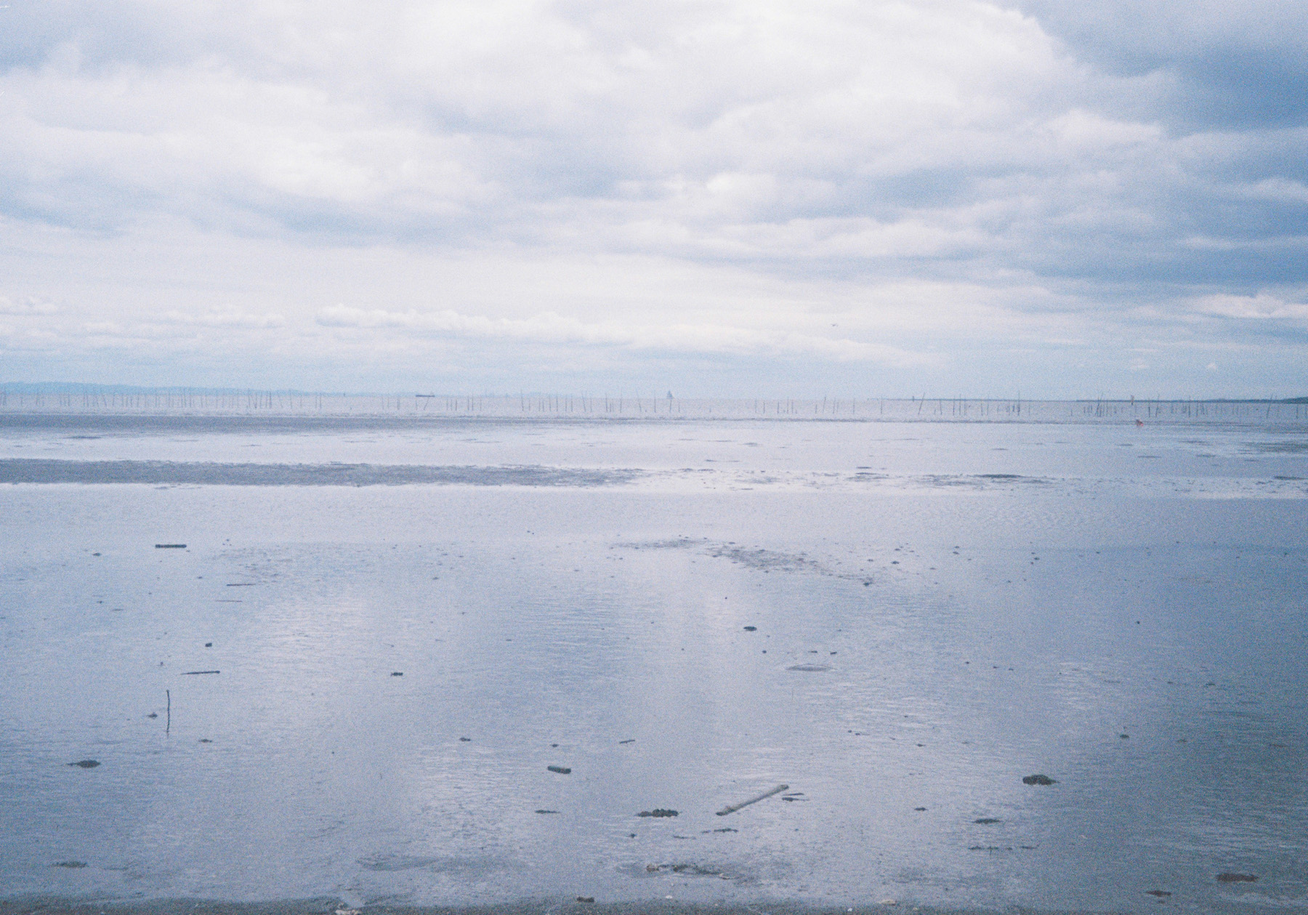
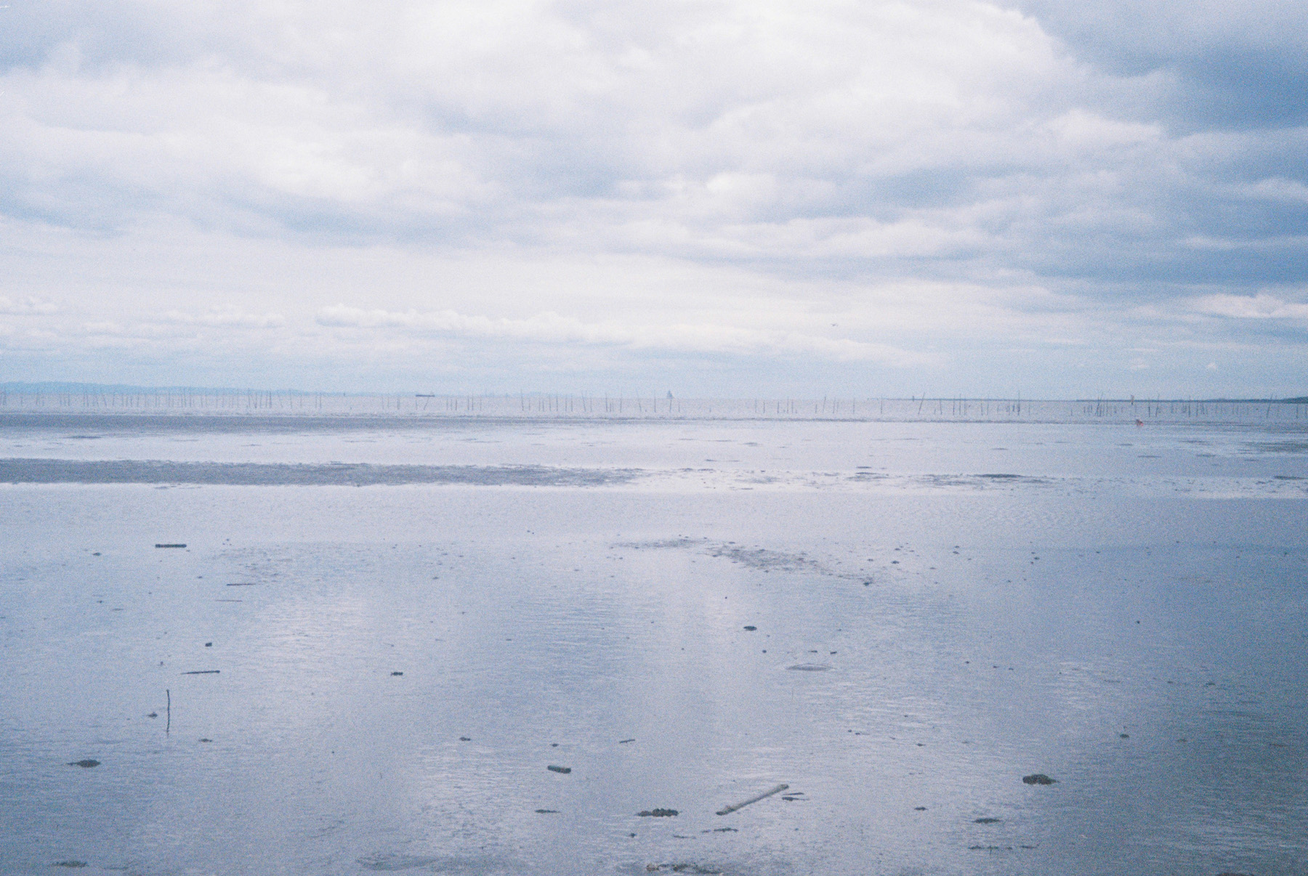
add codes

diff --git a/20260826.html b/20260826.html
@@ -108,56 +108,56 @@ a{
 
 <div class="example">
         <div class="example2">
-            <img src="photo/20260826/20260826-1.jpg" alt="写真" width="434.6" height="303.5">
+            <img src="photo/20260826/20260826-1.jpg" alt="写真" width="445.44" height="296.96">
             <figcaption class="tag">
-                <a href="ht-street.html">(#street)</a> <a href="ht-red.html">(#red)</a> <a href="ht-camerafilm.html">(#film)</a>
+                <a href="ht-sea.html">(#sea)</a> <a href="ht-blue.html">(#blue)</a> <a href="ht-cameradigital.html">(#digitalcamera)</a>
             </figcaption>
             <span class="caption">1</span>
         </div>
         <div class="example2">
             <img src="photo/20260826/20260826-2.jpg" alt="写真" width="445.44" height="296.96">
             <figcaption class="tag">
-                <a href="ht-bird.html">(#bird)</a> <a href="ht-bangkok.html">(#bangkok)</a> <a href="ht-gold.html">(#gold)</a> <a href="ht-cameradigital.html">(#digitalcamera)</a>
+                <a href="ht-sea.html">(#sea)</a> <a href="ht-blue.html">(#blue)</a> <a href="ht-cairns.html">(#cairns)</a> <a href="ht-cameradigital.html">(#digitalcamera)</a>
             </figcaption>
             <span class="caption">2</span>
         </div>
         <div class="example2">
-            <img src="photo/20260826/20260826-3.jpg" alt="写真" width="434.6" height="303.5">
+            <img src="photo/20260826/20260826-3.jpg" alt="写真" width="445.44" height="296.96">
             <figcaption class="tag">
-               <a href="ht-flower.html">(#flower)</a> <a href="ht-red.html">(#red)</a> <a href="ht-camerafilm.html">(#film)</a>
+               <a href="ht-sea.html">(#sea)</a> <a href="ht-blue.html">(#blue)</a> <a href="ht-camerafilm.html">(#film)</a>
             </figcaption>
             <span class="caption">3</span>
         </div>
         <div class="example2">
             <img src="photo/20260826/20260826-4.jpg" alt="写真" width="445.44" height="296.96">
             <figcaption class="tag">
-                <a href="ht-street.html">(#street)</a> <a href="ht-bangkok.html">(#bangkok)</a> <a href="ht-orange.html">(#orange)</a> <a href="ht-cameradigital.html">(#digitalcamera)</a>
+                <a href="ht-sea.html">(#sea)</a> <a href="ht-blue.html">(#blue)</a> <a href="ht-camerafilm.html">(#film)</a>
             </figcaption>
             <span class="caption">4</span>
         </div>
         <div class="example2">
-            <img src="photo/20260826/20260826-5.jpg" alt="写真" width="434.6" height="303.5"> 
+            <img src="photo/20260826/20260826-5.jpg" alt="写真" width="445.44" height="296.96"> 
             <figcaption class="tag">
-                <a href="ht-street.html">(#street)</a> <a href="ht-pink.html">(#pink)</a> <a href="ht-camerafilm.html">(#film)</a>
+                <a href="ht-sea.html">(#sea)</a> <a href="ht-gray.html">(#gray)</a> <a href="ht-camerafilm.html">(#film)</a>
             </figcaption>
             <span class="caption">5</span>
         </div>
         <div class="example2">
             <img src="photo/20260826/20260826-6.jpg" alt="写真" width="445.44" height="296.96">
             <figcaption class="tag">
-                <a href="ht-street.html">(#street)</a> <a href="ht-bangkok.html">(#bangkok)</a> <a href="ht-red.html">(#red)</a> <a href="ht-cameradigital.html">(#digitalcamera)</a>
+                <a href="ht-sea.html">(#sea)</a> <a href="ht-blue.html">(#blue)</a> <a href="ht-cameradigital.html">(#digitalcamera)</a>
             </figcaption>
             <span class="caption">6</span>
         </div>
 </div>
 
 <ol>
-    <li>近所なのに普段歩かない道を歩いてみたら熟したすももが落ちていた</li>
-    <li>タイのバンコクの街中にある、お寺みたいなところにいたハト</li>
-    <li>つつじの花が綺麗な状態で落ちていた</li>
-    <li>市場に向かってフルーツを運んでいる（バンコク）</li>
-    <li>アオイの花が落ちて濡れている</li>
-    <li>バンコクの道に赤い花が散っていて綺麗だった</li>
+    <li>千葉県の九十九里浜。今日は海の写真を集めた</li>
+    <li>オーストラリアのケアンズ</li>
+    <li>東京都の葛西</li>
+    <li>福井の越前松島</li>
+    <li>千葉県の千葉みなと</li>
+    <li>神奈川県の熱海</li>
 </ol>
 <p>2026年8月26日</p>
 </body>
